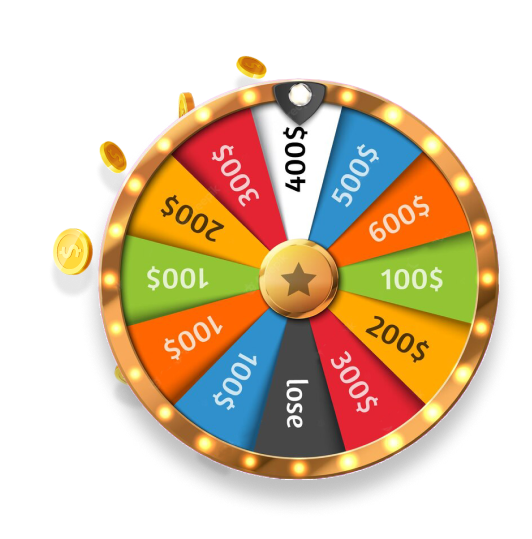
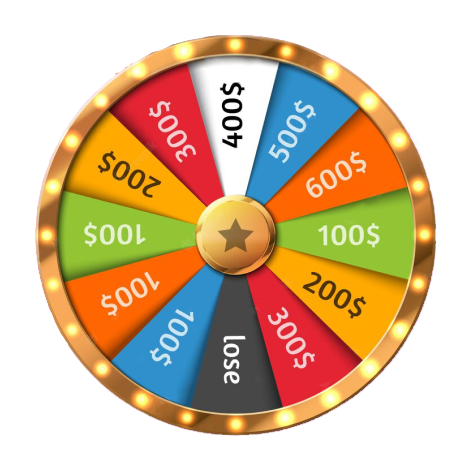
[Update] Bonus Wheel rotate

diff --git a/plugins/vuex.js b/plugins/vuex.js
@@ -1,19 +1,18 @@
-import { createStore } from "vuex";
+import { createStore } from 'vuex';
 const store = createStore({
-  state() {
-    return {
-      count: 6,
-    };
-  },
-  mutations: {
-    increment(state) {
-      state.count++;
+    state() {
+        return {
+            isDrawer: false,
+        };
     },
-  },
+    mutations: {
+        handleDrawer(state) {
+            state.isDrawer = !isDrawer.isDrawer;
+        },
+    },
 });
 
 export default defineNuxtPlugin((nuxtApp) => {
-  nuxtApp.vueApp.use(store);
-  // Install the store instance as a plugin
-
+    nuxtApp.vueApp.use(store);
+    // Install the store instance as a plugin
 });

diff --git a/components/sidebar/SideBarItem.vue b/components/sidebar/SideBarItem.vue
@@ -39,7 +39,12 @@ function getUrl(img: string) {
             />
             <img
                 style="width: 108px"
-                class="absolute right-0 bottom-0"
+                :class="[
+                    'absolute',
+                    'right-0',
+                    'bottom-0',
+                    title === 'BONUS WHEEl' ? 'rotate' : '',
+                ]"
                 :src="getUrl(iconUrl)"
                 spinner-color="primary"
                 spinner-size="24px"

diff --git a/components/landingPage/IntroCards.vue b/components/landingPage/IntroCards.vue
@@ -19,8 +19,8 @@
                         alt="title"
                     />
                     <q-img
-                        class="w-1/2 absolute right-0 -bottom-3"
-                        src="/imgs/wheel.png"
+                        class="w-1/2 absolute right-0 -bottom-3 rotate"
+                        src="/imgs/sidebar/wheel.png"
                         spinner-color="primary"
                         spinner-size="24px"
                         alt="title"

diff --git a/assets/app.css b/assets/app.css
@@ -135,10 +135,22 @@ body {
 }
 
 .border-x {
-    border-left: 1px solid #FFFFFF 30%;
-    border-right: 1px solid #FFFFFF 30%;
+    border-left: 1px solid #ffffff 30%;
+    border-right: 1px solid #ffffff 30%;
 }
 
+.rotate {
+    animation: rotate-image 12s linear infinite;
+}
+
+@keyframes rotate-image {
+    from {
+        transform: rotate(0deg);
+    }
+    to {
+        transform: rotate(360deg);
+    }
+}
 
 /* RESPONSIVE */
 @media (max-width: 1024px) {

diff --git a/pages/index.vue b/pages/index.vue
@@ -7,10 +7,9 @@ import ProviderList from '~~/components/landingPage/ProviderList.vue';
 import games from './games.tmp.json';
 import providers from './providers.tmp.json';
 import Activity from '~~/components/landingPage/Activity.vue';
-
-
 const store = useStore();
-console.log(store.state.count);
+console.log(store.state.isDrawer);
+
 </script>
 <template>
     <q-page class="q-pl-lg">
